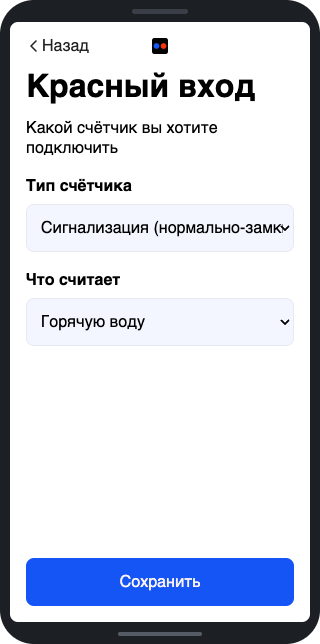
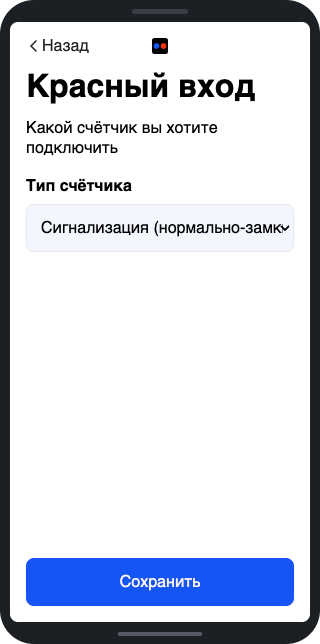
Портал: «Что считает» скрыто у датчика протечки и сигнализации
Такой вход ничего не считает, поэтому поле только путает. Значение уходит с
формой как раньше, поэтому прошивке и симулятору менять нечего. Вызов при
загрузке нужен для уже сохранённого типа: его подставляет _init.

Changed region(s): [[0.0625, 0.4037, 0.375, 0.4658], [0.1562, 0.4969, 0.4688, 0.528], [0.875, 0.4969, 0.9062, 0.528]]

diff --git a/simulator/test_wizard_browser.js b/simulator/test_wizard_browser.js
@@ -158,6 +158,7 @@ async function run() {
         check('на страницах мастера нет ошибок в скриптах', crashes);
         await pagesOutsideWizard(page, origin);
         await wrongPassword(page, origin);
+        await sensorHidesResource(page, origin);
     } finally {
         await browser.close();
         server.close();
@@ -264,6 +265,30 @@ async function alarms(page, origin) {
     }
 
     check('тревоги поднимаются галочками и доезжают до портала', problems);
+}
+
+async function sensorHidesResource(page, origin) {
+    const problems = [];
+    const row = page.locator('#counter_name_row');
+
+    await page.goto(origin + '/input/0/setup.html', { waitUntil: 'networkidle' });
+    if (!(await row.isVisible())) problems.push('у счётчика поле скрыто');
+
+    for (const type of ['5', '6']) {
+        await page.selectOption('#counter_type', type);
+        if (await row.isVisible()) problems.push('у типа ' + type + ' поле видно');
+    }
+
+    await page.selectOption('#counter_type', '0');
+    if (!(await row.isVisible())) problems.push('поле не вернулось у счётчика');
+
+    await page.selectOption('#counter_type', '6');
+    await page.click('button[type=submit]');
+    await page.waitForURL(/index\.html/, { timeout: 10000 });
+    await page.goto(origin + '/input/0/setup.html', { waitUntil: 'networkidle' });
+    if (await row.isVisible()) problems.push('у сохранённой сигнализации поле видно');
+
+    check('«Что считает» скрыто у датчика протечки и сигнализации', problems);
 }
 
 async function placeholders(page, origin) {

diff --git a/ESP8266/data/input_setup.html b/ESP8266/data/input_setup.html
@@ -13,7 +13,7 @@
         back_wizard: '/wifi_list.html?wizard=true',
         next: '/index.html',
         next_wizard: '/index.html'
-    });">
+    }); toggle_counter_name();">
         <form onsubmit="formSubmit(event, this, '/api/save_input_type');">
             <div class="wrap">
                 <div class="container f1">
@@ -35,7 +35,7 @@
                         <p class="form-error hd"></p>
                         <div class="f-row">
                             <label for="counter_type">Тип счётчика</label>
-                            <select class="slct" id="counter_type" name="counter_type" option-value="%counter_type%">
+                            <select class="slct" id="counter_type" name="counter_type" option-value="%counter_type%" onchange="toggle_counter_name()">
                               <option selected="" value="0">Механический (Геркон, Намур)</option>
                               <option value="2">Электронный</option>
                               <option value="5" %leak_off%>Протечка (нормально-разомкнутый)</option>
@@ -45,7 +45,7 @@
                             <p class="error hd" id="counter_type-error">Некорректное значение</p>
                         </div>
 
-                        <div class="f-row">
+                        <div class="f-row" id="counter_name_row">
                             <label for="counter_name">Что считает</label>
                             <select class="slct" id="counter_name" name="counter_name" option-value="%counter_name%">
                               <option selected="" value="0">Холодную воду</option>

diff --git a/ESP8266/data/static/strings.js b/ESP8266/data/static/strings.js
@@ -170,6 +170,13 @@ function fill_resource_options() {
     }
 }
 
+// Значение скрытого поля всё равно уходит с формой
+function toggle_counter_name() {
+    var type = Number(document.getElementById('counter_type').value);
+    var sensor = type == CounterType_LEAKAGE || type == CounterType_SIGNAL_NC;
+    document.getElementById('counter_name_row').classList.toggle('hd', sensor);
+}
+
 function format_number(value) {
     var s = Number(value).toFixed(3);
     if (s.indexOf(".") >= 0) {

diff --git a/ESP8266/src/setup.h b/ESP8266/src/setup.h
@@ -21,6 +21,8 @@
                       2. Home Assistant: вариант SIGNAL_NC вместо LEAKAGE_NC в
                          Input Type, у такого входа Alarm: signal с классом
                          problem вместо Alarm: water sensor.
+                      3. Страница входа: "Тип счётчика" стоит первым, поле "Что
+                         считает" скрыто у датчика протечки и сигнализации.
 
 2.0.54  - 2026.10.31 - dontsovcmc
                       1. NTP спрашивает три разных сервера пула вместо пяти

diff --git a/Setup.md b/Setup.md
@@ -50,7 +50,7 @@
 
 ## 4. Настройте счётчик холодной воды
 
-1. **«Синий вход»**: выберите тип счётчика и что считает вход. Обычно менять ничего не надо. Нажмите «Сохранить».
+1. **«Синий вход»**: выберите тип счётчика и что считает вход. У протечки и сигнализации поля «Что считает» нет. Обычно менять ничего не надо. Нажмите «Сохранить».
 2. Спускайте воду в унитазе. Ватериус сам перейдёт дальше. Обычно нужно слить 5-10 литров. Если страница не меняется, проверьте провода.
 3. Введите показания и нажмите «Сохранить». Серийный номер не обязателен.
 
